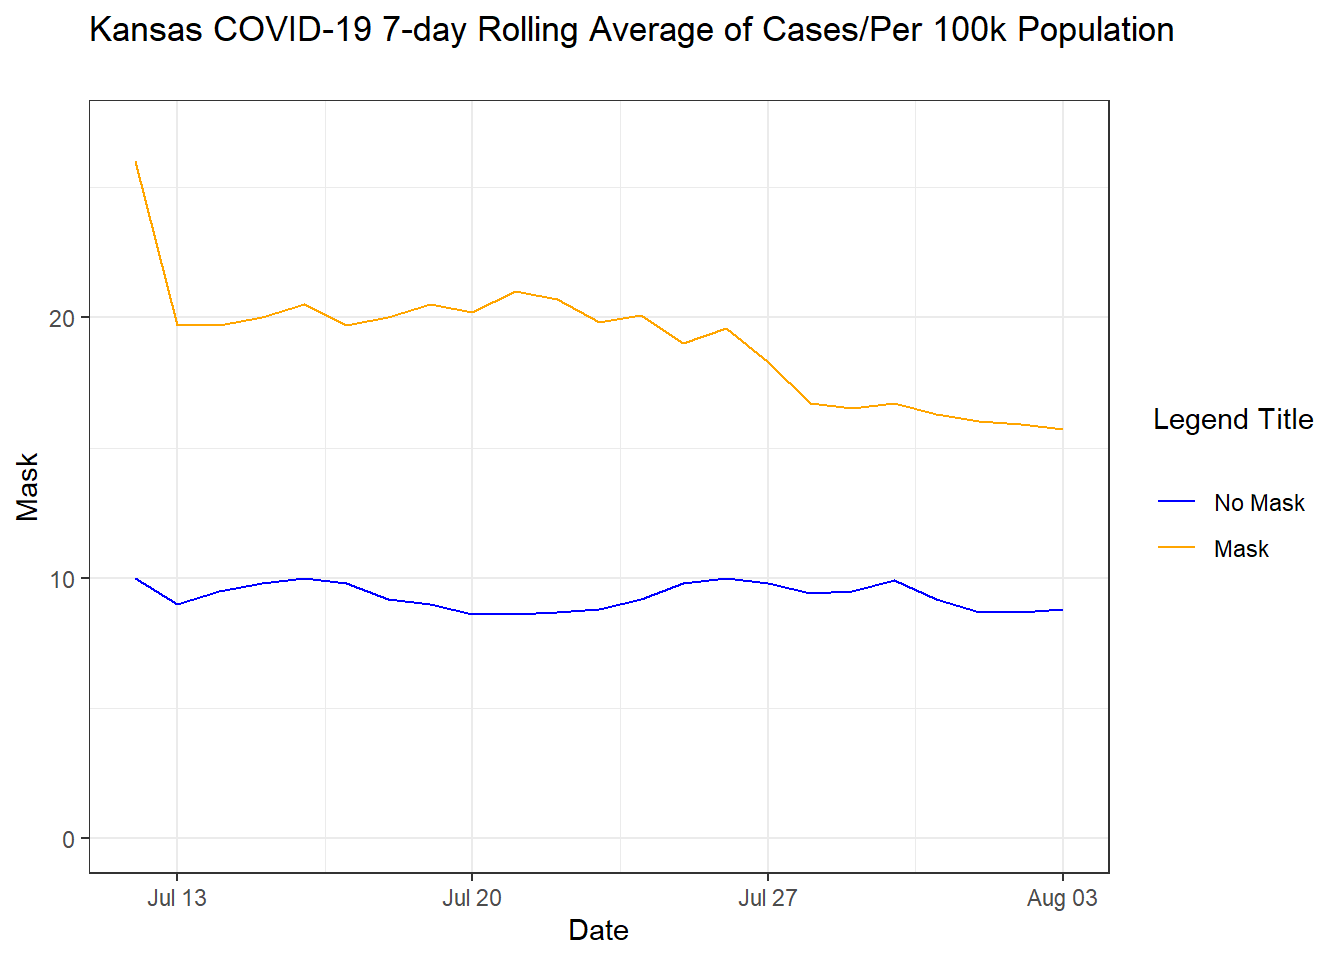
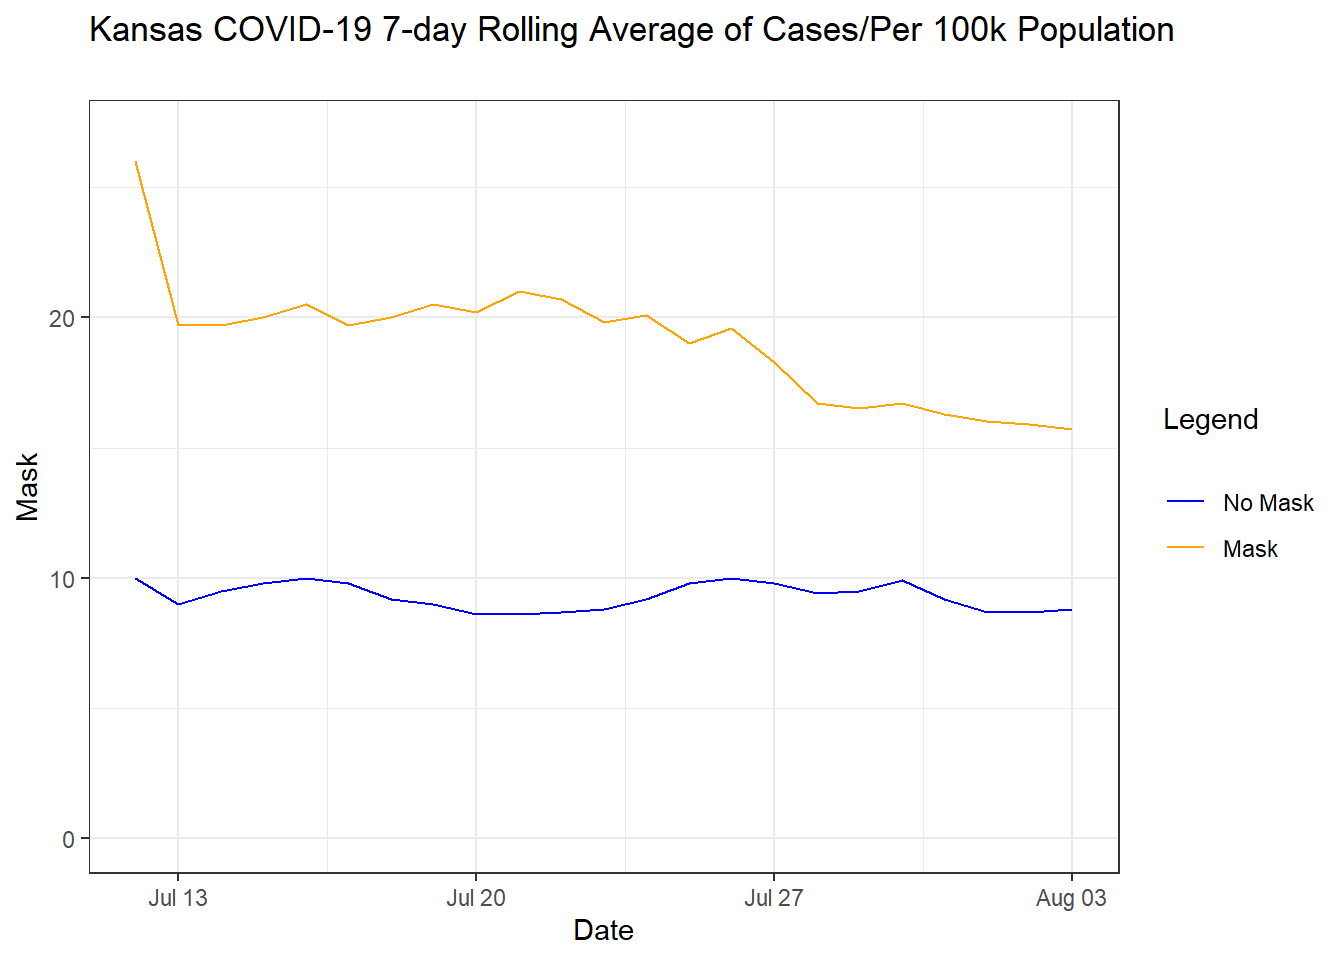
A04

diff --git a/content/post/2022-04-11-ethics-and-privacy/index.html b/content/post/2022-04-11-ethics-and-privacy/index.html
@@ -82,7 +82,7 @@ cases %&gt;%
   geom_line(aes(y=Mask, color = &quot;orange&quot;)) +
   geom_line(aes(y=No_Mask, color = &quot;lightblue&quot;)) +
   theme_bw() +
-  labs(title = &quot;Kansas COVID-19 7-day Rolling Average of Cases/Per 100k Population\n&quot;, color = &quot;Legend Title\n&quot;) +
+  labs(title = &quot;Kansas COVID-19 7-day Rolling Average of Cases/Per 100k Population\n&quot;, color = &quot;Legend\n&quot;) +
   scale_color_manual(labels = c(&quot;No Mask&quot;, &quot;Mask&quot;), values = c(&quot;blue&quot;, &quot;orange&quot;)) +
   ylim(0,27)</code></pre>
 <p><img src="{{< blogdown/postref >}}index_files/figure-html/unnamed-chunk-3-1.png" width="672" />
